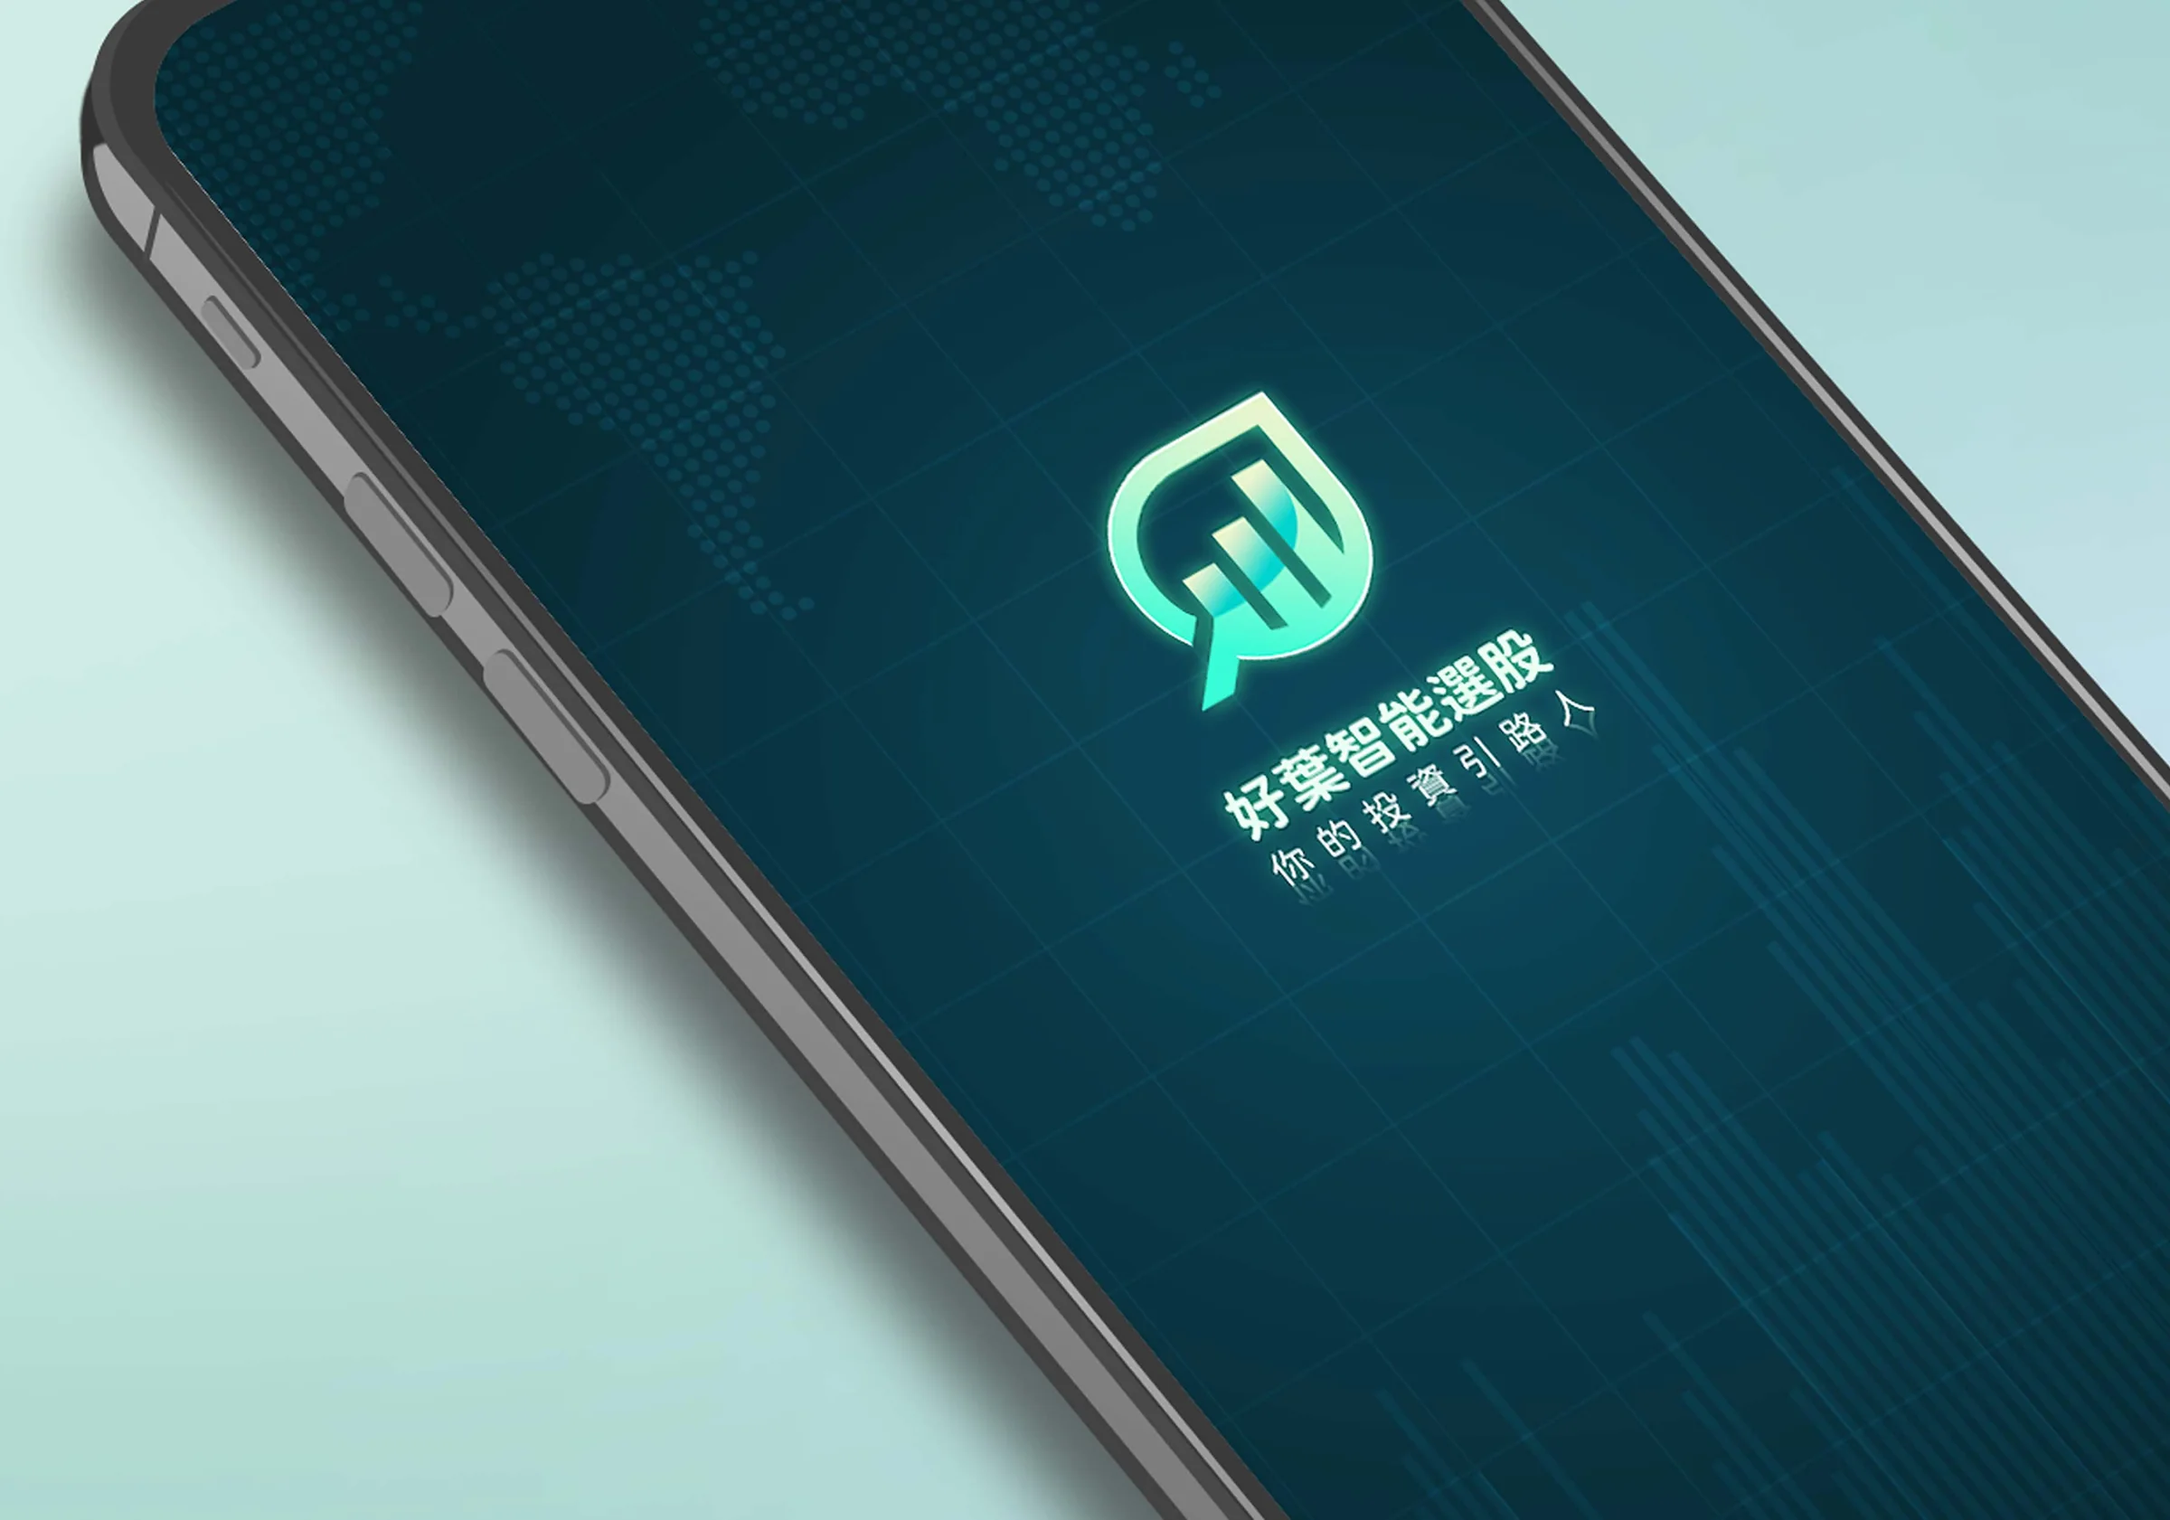
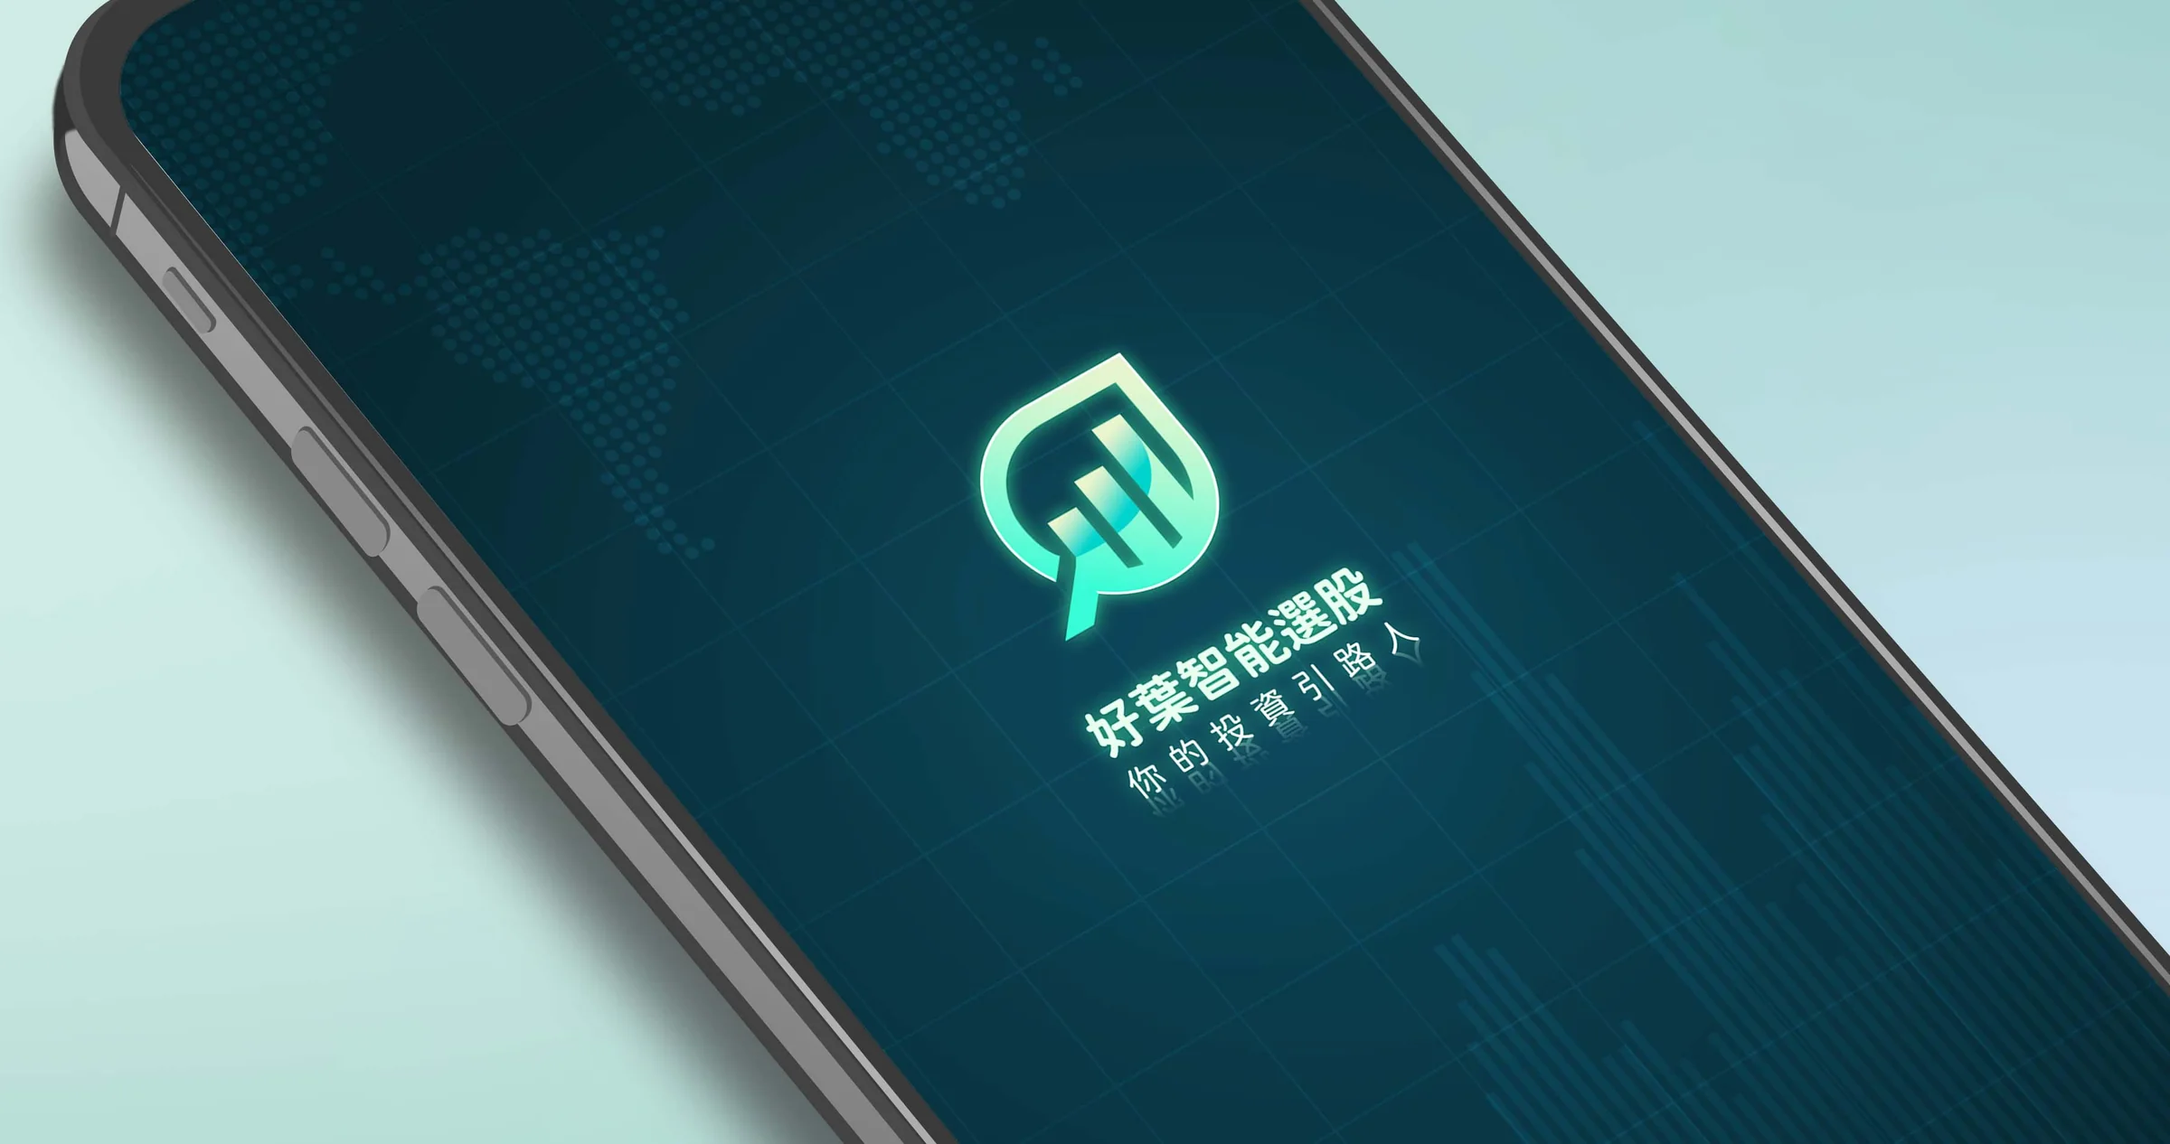
Case 05: shorter cover image
Claude-Session: https://claude.ai/code/session_01GjEy689vh6dg91TD7dTNVD

diff --git a/works.html b/works.html
@@ -39,7 +39,7 @@
       <a class="jade-project-card wk-card" data-cat="graphic" href="works/work-02-card.html" data-tone="coral"><div class="jade-project-card__head"><span class="jade-project-card__index">02</span><span class="jade-project-card__rule" aria-hidden="true"></span><span class="jade-project-card__label">國泰金控</span><span class="jade-project-card__icon" aria-hidden="true"><svg viewBox="0 0 24 24" fill="none" stroke="currentColor" stroke-width="2.2" stroke-linecap="round" stroke-linejoin="round"><path d="M7 17 17 7M8 7h9v9"/></svg></span></div><div class="jade-project-card__media"><img src="public/works/work-02-card.webp" width="1600" height="900" alt="三本新春電子月刊封面：五福臨門、鴻圖大展、花開富貴" loading="lazy" decoding="async"></div><div class="jade-project-card__body"><h3 class="jade-project-card__title">2020新春電子月刊</h3><p class="jade-project-card__tags">視覺設計</p></div></a>
       <a class="jade-project-card wk-card" data-cat="package" href="works/work-03-package.html" data-tone="cyan"><div class="jade-project-card__head"><span class="jade-project-card__index">03</span><span class="jade-project-card__rule" aria-hidden="true"></span><span class="jade-project-card__label">艾沛膚</span><span class="jade-project-card__icon" aria-hidden="true"><svg viewBox="0 0 24 24" fill="none" stroke="currentColor" stroke-width="2.2" stroke-linecap="round" stroke-linejoin="round"><path d="M7 17 17 7M8 7h9v9"/></svg></span></div><div class="jade-project-card__media"><img src="public/works/work-03-package.webp?v=1116" width="1600" height="900" alt="Elpis 艾沛膚系列洗髮與保養產品包裝" loading="lazy" decoding="async"></div><div class="jade-project-card__body"><h3 class="jade-project-card__title">系列產品包裝</h3><p class="jade-project-card__tags">包裝設計</p></div></a>
       <a class="jade-project-card wk-card" data-cat="personal" data-href="works/work-04-drawing.html" aria-disabled="true" data-tone="pink"><div class="jade-project-card__head"><span class="jade-project-card__index">04</span><span class="jade-project-card__rule" aria-hidden="true"></span><span class="jade-project-card__label">PERSONAL PROJECT</span><span class="jade-project-card__icon" aria-hidden="true"><svg viewBox="0 0 24 24" fill="none" stroke="currentColor" stroke-width="2.2" stroke-linecap="round" stroke-linejoin="round"><path d="M7 17 17 7M8 7h9v9"/></svg></span></div><div class="jade-project-card__media"><img src="public/works/work-04-drawing.webp" width="1600" height="900" alt="30 Day Drawing 素描本，人物鉛筆速寫" loading="lazy" decoding="async"></div><div class="jade-project-card__body"><h3 class="jade-project-card__title">30日繪畫計畫</h3><p class="jade-project-card__tags">插畫創作 · 風格探索 · 每日練習</p></div></a>
-      <a class="jade-project-card wk-card" data-cat="uiux" href="works/work-05-kolapp.html" data-tone="lime"><div class="jade-project-card__head"><span class="jade-project-card__index">05</span><span class="jade-project-card__rule" aria-hidden="true"></span><span class="jade-project-card__label">YouTuber Better Leaf 好葉</span><span class="jade-project-card__icon" aria-hidden="true"><svg viewBox="0 0 24 24" fill="none" stroke="currentColor" stroke-width="2.2" stroke-linecap="round" stroke-linejoin="round"><path d="M7 17 17 7M8 7h9v9"/></svg></span></div><div class="jade-project-card__media"><img src="public/works/work-05-kolapp.webp?v=1116c" width="1600" height="900" alt="好葉智能選股 App 啟動畫面" loading="lazy" decoding="async"></div><div class="jade-project-card__body"><h3 class="jade-project-card__title">好葉智能選股APP</h3><p class="jade-project-card__tags">APP主視覺規劃</p></div></a>
+      <a class="jade-project-card wk-card" data-cat="uiux" href="works/work-05-kolapp.html" data-tone="lime"><div class="jade-project-card__head"><span class="jade-project-card__index">05</span><span class="jade-project-card__rule" aria-hidden="true"></span><span class="jade-project-card__label">YouTuber Better Leaf 好葉</span><span class="jade-project-card__icon" aria-hidden="true"><svg viewBox="0 0 24 24" fill="none" stroke="currentColor" stroke-width="2.2" stroke-linecap="round" stroke-linejoin="round"><path d="M7 17 17 7M8 7h9v9"/></svg></span></div><div class="jade-project-card__media"><img src="public/works/work-05-kolapp.webp?v=1116d" width="1600" height="900" alt="好葉智能選股 App 啟動畫面" loading="lazy" decoding="async"></div><div class="jade-project-card__body"><h3 class="jade-project-card__title">好葉智能選股APP</h3><p class="jade-project-card__tags">APP主視覺規劃</p></div></a>
       <a class="jade-project-card wk-card" data-cat="uiux" data-href="works/work-06-chat.html" aria-disabled="true" data-tone="lavender"><div class="jade-project-card__head"><span class="jade-project-card__index">06</span><span class="jade-project-card__rule" aria-hidden="true"></span><span class="jade-project-card__label">YouTuber Mike是麥克</span><span class="jade-project-card__icon" aria-hidden="true"><svg viewBox="0 0 24 24" fill="none" stroke="currentColor" stroke-width="2.2" stroke-linecap="round" stroke-linejoin="round"><path d="M7 17 17 7M8 7h9v9"/></svg></span></div><div class="jade-project-card__media"><img src="public/works/work-06-chat.webp" width="1600" height="900" alt="App 聊天室關鍵字搜尋畫面" loading="lazy" decoding="async"></div><div class="jade-project-card__body"><h3 class="jade-project-card__title">APP功能優化</h3><p class="jade-project-card__tags">聊天室關鍵字搜尋</p></div></a>
     </div>
     <div class="wk-cta">

diff --git a/works/work-05-kolapp.html b/works/work-05-kolapp.html
@@ -24,7 +24,7 @@
     <span class="jade-sticker cs-hero__st3" data-shape="circle" data-tone="yellow" style="--jade-sticker-rotation:-12deg" aria-hidden="true"><svg class="jade-sticker__shape" viewBox="0 0 128 128" aria-hidden="true"><circle cx="64" cy="64" r="61"/></svg></span><span class="jade-sticker cs-hero__st2" data-shape="scallop" data-tone="coral" style="--jade-sticker-rotation:8deg" aria-hidden="true"><svg class="jade-sticker__shape" viewBox="0 0 128 128" aria-hidden="true"><path d="M125.0,64.0 L124.6,65.6 L123.6,67.1 L122.1,68.6 L120.2,69.9 L118.2,71.1 L116.4,72.3 L114.9,73.4 L114.0,74.6 L113.7,75.9 L113.9,77.4 L114.7,79.0 L115.8,80.8 L117.0,82.8 L118.2,84.8 L119.0,86.8 L119.3,88.6 L119.1,90.3 L118.1,91.6 L116.6,92.6 L114.7,93.2 L112.4,93.7 L110.1,93.9 L107.9,94.2 L106.0,94.5 L104.6,95.2 L103.7,96.1 L103.2,97.5 L103.1,99.2 L103.3,101.3 L103.6,103.6 L103.8,105.9 L103.7,108.1 L103.3,110.0 L102.4,111.4 L101.0,112.3 L99.3,112.6 L97.3,112.4 L95.1,111.8 L92.9,111.1 L90.8,110.3 L88.9,109.8 L87.3,109.7 L86.0,110.0 L84.9,111.0 L84.1,112.5 L83.3,114.4 L82.6,116.5 L81.8,118.7 L80.8,120.7 L79.6,122.3 L78.2,123.3 L76.7,123.6 L75.0,123.2 L73.2,122.2 L71.5,120.8 L69.8,119.2 L68.2,117.6 L66.7,116.2 L65.3,115.3 L64.0,115.0 L62.7,115.3 L61.3,116.2 L59.8,117.6 L58.2,119.2 L56.5,120.8 L54.8,122.2 L53.0,123.2 L51.3,123.6 L49.8,123.3 L48.4,122.3 L47.2,120.7 L46.2,118.7 L45.4,116.5 L44.7,114.4 L43.9,112.5 L43.1,111.0 L42.0,110.0 L40.7,109.7 L39.1,109.8 L37.3,110.3 L35.1,111.1 L32.9,111.8 L30.7,112.4 L28.7,112.6 L27.0,112.3 L25.6,111.4 L24.7,110.0 L24.3,108.1 L24.2,105.9 L24.4,103.6 L24.7,101.3 L24.9,99.2 L24.8,97.5 L24.3,96.1 L23.4,95.2 L22.0,94.5 L20.1,94.2 L17.9,93.9 L15.6,93.7 L13.3,93.2 L11.4,92.6 L9.9,91.6 L8.9,90.3 L8.7,88.6 L9.0,86.8 L9.8,84.8 L11.0,82.8 L12.2,80.8 L13.3,79.0 L14.1,77.4 L14.3,75.9 L14.0,74.6 L13.1,73.4 L11.6,72.3 L9.8,71.1 L7.8,69.9 L5.9,68.6 L4.4,67.1 L3.4,65.6 L3.0,64.0 L3.4,62.4 L4.4,60.9 L5.9,59.4 L7.8,58.1 L9.8,56.9 L11.6,55.7 L13.1,54.6 L14.0,53.4 L14.3,52.1 L14.1,50.6 L13.3,49.0 L12.2,47.2 L11.0,45.2 L9.8,43.2 L9.0,41.2 L8.7,39.4 L8.9,37.7 L9.9,36.4 L11.4,35.4 L13.3,34.8 L15.6,34.3 L17.9,34.1 L20.1,33.8 L22.0,33.5 L23.4,32.8 L24.3,31.9 L24.8,30.5 L24.9,28.8 L24.7,26.7 L24.4,24.4 L24.2,22.1 L24.3,19.9 L24.7,18.0 L25.6,16.6 L27.0,15.7 L28.7,15.4 L30.7,15.6 L32.9,16.2 L35.1,16.9 L37.2,17.7 L39.1,18.2 L40.7,18.3 L42.0,18.0 L43.1,17.0 L43.9,15.5 L44.7,13.6 L45.4,11.5 L46.2,9.3 L47.2,7.3 L48.4,5.7 L49.8,4.7 L51.3,4.4 L53.0,4.8 L54.8,5.8 L56.5,7.2 L58.2,8.8 L59.8,10.4 L61.3,11.8 L62.7,12.7 L64.0,13.0 L65.3,12.7 L66.7,11.8 L68.2,10.4 L69.8,8.8 L71.5,7.2 L73.2,5.8 L75.0,4.8 L76.7,4.4 L78.2,4.7 L79.6,5.7 L80.8,7.3 L81.8,9.3 L82.6,11.5 L83.3,13.6 L84.1,15.5 L84.9,17.0 L86.0,18.0 L87.3,18.3 L88.9,18.2 L90.8,17.7 L92.9,16.9 L95.1,16.2 L97.3,15.6 L99.3,15.4 L101.0,15.7 L102.4,16.6 L103.3,18.0 L103.7,19.9 L103.8,22.1 L103.6,24.4 L103.3,26.7 L103.1,28.8 L103.2,30.5 L103.7,31.9 L104.6,32.8 L106.0,33.5 L107.9,33.8 L110.1,34.1 L112.4,34.3 L114.7,34.8 L116.6,35.4 L118.1,36.4 L119.1,37.7 L119.3,39.4 L119.0,41.2 L118.2,43.2 L117.0,45.2 L115.8,47.2 L114.7,49.0 L113.9,50.6 L113.7,52.1 L114.0,53.4 L114.9,54.6 L116.4,55.7 L118.2,56.9 L120.2,58.1 L122.1,59.4 L123.6,60.9 L124.6,62.4Z"/></svg></span>
     <ul class="cs-tags"><li>金融投資</li><li>Better Leaf 好葉</li><li>2025</li></ul>
     <h1 class="cs-title">Better Leaf App<span>好葉智能選股APP</span></h1>
-    <div class="cs-cover" data-tone="lime"><span class="jade-sticker cs-hero__st" data-shape="burst" data-tone="lime" style="--jade-sticker-rotation:-10deg" aria-hidden="true"><svg class="jade-sticker__shape" viewBox="0 0 128 128"><polygon points="64.0,2.0 73.2,17.9 87.7,6.7 90.1,24.9 107.8,20.2 103.1,37.9 121.3,40.3 110.1,54.8 126.0,64.0 110.1,73.2 121.3,87.7 103.1,90.1 107.8,107.8 90.1,103.1 87.7,121.3 73.2,110.1 64.0,126.0 54.8,110.1 40.3,121.3 37.9,103.1 20.2,107.8 24.9,90.1 6.7,87.7 17.9,73.2 2.0,64.0 17.9,54.8 6.7,40.3 24.9,37.9 20.2,20.2 37.9,24.9 40.3,6.7 54.8,17.9"/></svg><span class="jade-sticker__label"><b>05</b>Case</span></span><picture><source srcset="../public/works/work-05-kolapp-cover.webp?v=1116c" type="image/webp"><img src="../public/works/work-05-kolapp-cover.jpg?v=1116c" width="2400" height="1681" style="aspect-ratio:2400/1681" alt="好葉智能選股 APP 啟動畫面與品牌主視覺" decoding="async" fetchpriority="high"></picture></div>
+    <div class="cs-cover" data-tone="lime"><span class="jade-sticker cs-hero__st" data-shape="burst" data-tone="lime" style="--jade-sticker-rotation:-10deg" aria-hidden="true"><svg class="jade-sticker__shape" viewBox="0 0 128 128"><polygon points="64.0,2.0 73.2,17.9 87.7,6.7 90.1,24.9 107.8,20.2 103.1,37.9 121.3,40.3 110.1,54.8 126.0,64.0 110.1,73.2 121.3,87.7 103.1,90.1 107.8,107.8 90.1,103.1 87.7,121.3 73.2,110.1 64.0,126.0 54.8,110.1 40.3,121.3 37.9,103.1 20.2,107.8 24.9,90.1 6.7,87.7 17.9,73.2 2.0,64.0 17.9,54.8 6.7,40.3 24.9,37.9 20.2,20.2 37.9,24.9 40.3,6.7 54.8,17.9"/></svg><span class="jade-sticker__label"><b>05</b>Case</span></span><picture><source srcset="../public/works/work-05-kolapp-cover.webp?v=1116d" type="image/webp"><img src="../public/works/work-05-kolapp-cover.jpg?v=1116d" width="2400" height="1266" style="aspect-ratio:2400/1266" alt="好葉智能選股 APP 啟動畫面與品牌主視覺" decoding="async" fetchpriority="high"></picture></div>
   </div>
 </header>
 

diff --git a/index.html b/index.html
@@ -129,7 +129,7 @@
       <a class="jade-project-card" href="works/work-02-card.html" data-tone="coral"><div class="jade-project-card__head"><span class="jade-project-card__index">02</span><span class="jade-project-card__rule" aria-hidden="true"></span><span class="jade-project-card__label">國泰金控</span></div><div class="jade-project-card__media"><img src="public/works/work-02-card.webp" width="1600" height="900" alt="三本新春電子月刊封面：五福臨門、鴻圖大展、花開富貴" loading="lazy" decoding="async"></div><div class="jade-project-card__body"><h3 class="jade-project-card__title">2020新春電子月刊</h3><p class="jade-project-card__tags">視覺設計</p></div></a>
       <a class="jade-project-card" href="works/work-03-package.html" data-tone="cyan"><div class="jade-project-card__head"><span class="jade-project-card__index">03</span><span class="jade-project-card__rule" aria-hidden="true"></span><span class="jade-project-card__label">艾沛膚</span></div><div class="jade-project-card__media"><img src="public/works/work-03-package.webp?v=1116" width="1600" height="900" alt="Elpis 艾沛膚系列洗髮與保養產品包裝" loading="lazy" decoding="async"></div><div class="jade-project-card__body"><h3 class="jade-project-card__title">系列產品包裝</h3><p class="jade-project-card__tags">包裝設計</p></div></a>
       <article class="jade-project-card" data-tone="pink"><div class="jade-project-card__head"><span class="jade-project-card__index">04</span><span class="jade-project-card__rule" aria-hidden="true"></span><span class="jade-project-card__label">PERSONAL PROJECT</span></div><div class="jade-project-card__media"><img src="public/works/work-04-drawing.webp" width="1600" height="900" alt="30 Day Drawing 素描本，人物鉛筆速寫" loading="lazy" decoding="async"></div><div class="jade-project-card__body"><h3 class="jade-project-card__title">30日繪畫計畫</h3><p class="jade-project-card__tags">插畫創作 · 風格探索 · 每日練習</p></div></article>
-      <a class="jade-project-card" href="works/work-05-kolapp.html" data-tone="lime"><div class="jade-project-card__head"><span class="jade-project-card__index">05</span><span class="jade-project-card__rule" aria-hidden="true"></span><span class="jade-project-card__label">YouTuber Better Leaf 好葉</span></div><div class="jade-project-card__media"><img src="public/works/work-05-kolapp.webp?v=1116c" width="1600" height="900" alt="好葉智能選股 App 啟動畫面" loading="lazy" decoding="async"></div><div class="jade-project-card__body"><h3 class="jade-project-card__title">好葉智能選股APP</h3><p class="jade-project-card__tags">APP主視覺規劃</p></div></a>
+      <a class="jade-project-card" href="works/work-05-kolapp.html" data-tone="lime"><div class="jade-project-card__head"><span class="jade-project-card__index">05</span><span class="jade-project-card__rule" aria-hidden="true"></span><span class="jade-project-card__label">YouTuber Better Leaf 好葉</span></div><div class="jade-project-card__media"><img src="public/works/work-05-kolapp.webp?v=1116d" width="1600" height="900" alt="好葉智能選股 App 啟動畫面" loading="lazy" decoding="async"></div><div class="jade-project-card__body"><h3 class="jade-project-card__title">好葉智能選股APP</h3><p class="jade-project-card__tags">APP主視覺規劃</p></div></a>
       <article class="jade-project-card" data-tone="lavender"><div class="jade-project-card__head"><span class="jade-project-card__index">06</span><span class="jade-project-card__rule" aria-hidden="true"></span><span class="jade-project-card__label">YouTuber Mike是麥克</span></div><div class="jade-project-card__media"><img src="public/works/work-06-chat.webp" width="1600" height="900" alt="App 聊天室關鍵字搜尋畫面" loading="lazy" decoding="async"></div><div class="jade-project-card__body"><h3 class="jade-project-card__title">APP功能優化</h3><p class="jade-project-card__tags">聊天室關鍵字搜尋</p></div></article>
     </div>
     <div class="work-more">

diff --git a/tools/case_data.py b/tools/case_data.py
@@ -51,7 +51,7 @@ CASES={
   desc='Jade Shih 作品：YouTuber Better Leaf 好葉「好葉智能選股」APP 主視覺規劃、品牌識別與介面視覺。',
   tags=['金融投資','Better Leaf 好葉','2025'],
   tagline='',
-  cover='work-05-kolapp-cover',cover_w=2400,cover_h=1681,cover_alt='好葉智能選股 APP 啟動畫面與品牌主視覺',
+  cover='work-05-kolapp-cover',cover_w=2400,cover_h=1266,cover_alt='好葉智能選股 APP 啟動畫面與品牌主視覺',
   meta=[('Client','YouTuber Better Leaf 好葉'),('Role','APP主視覺規劃'),('Deliverables','好葉智能選股APP'),('Year','2025')],
   overview='<p>「好葉智能選股」是一個以投資分析與選股資訊為核心的品牌，期望建立具備專業感、信賴感與辨識度的視覺形象。</p><p>本次專案業主並未設定明確的設計方向，而是給予高度創作自由，從品牌意象、視覺概念到風格定位皆由設計端自主發想，打造符合金融投資領域特性的品牌識別。</p>',
   cards=[dict(tone='cyan',title='What I made',zh='我的設計',text='以「樹葉」結合象徵投資成長的上升箭頭，打造兼具品牌名稱意象與金融屬性的識別標誌。透過簡潔俐落的幾何造型，呼應品牌作為投資指引的定位，傳遞引領投資人掌握市場方向的核心概念。整體以深藍與科技綠為主色，搭配金融數據元素，塑造專業、理性且值得信賴的品牌形象。'),
